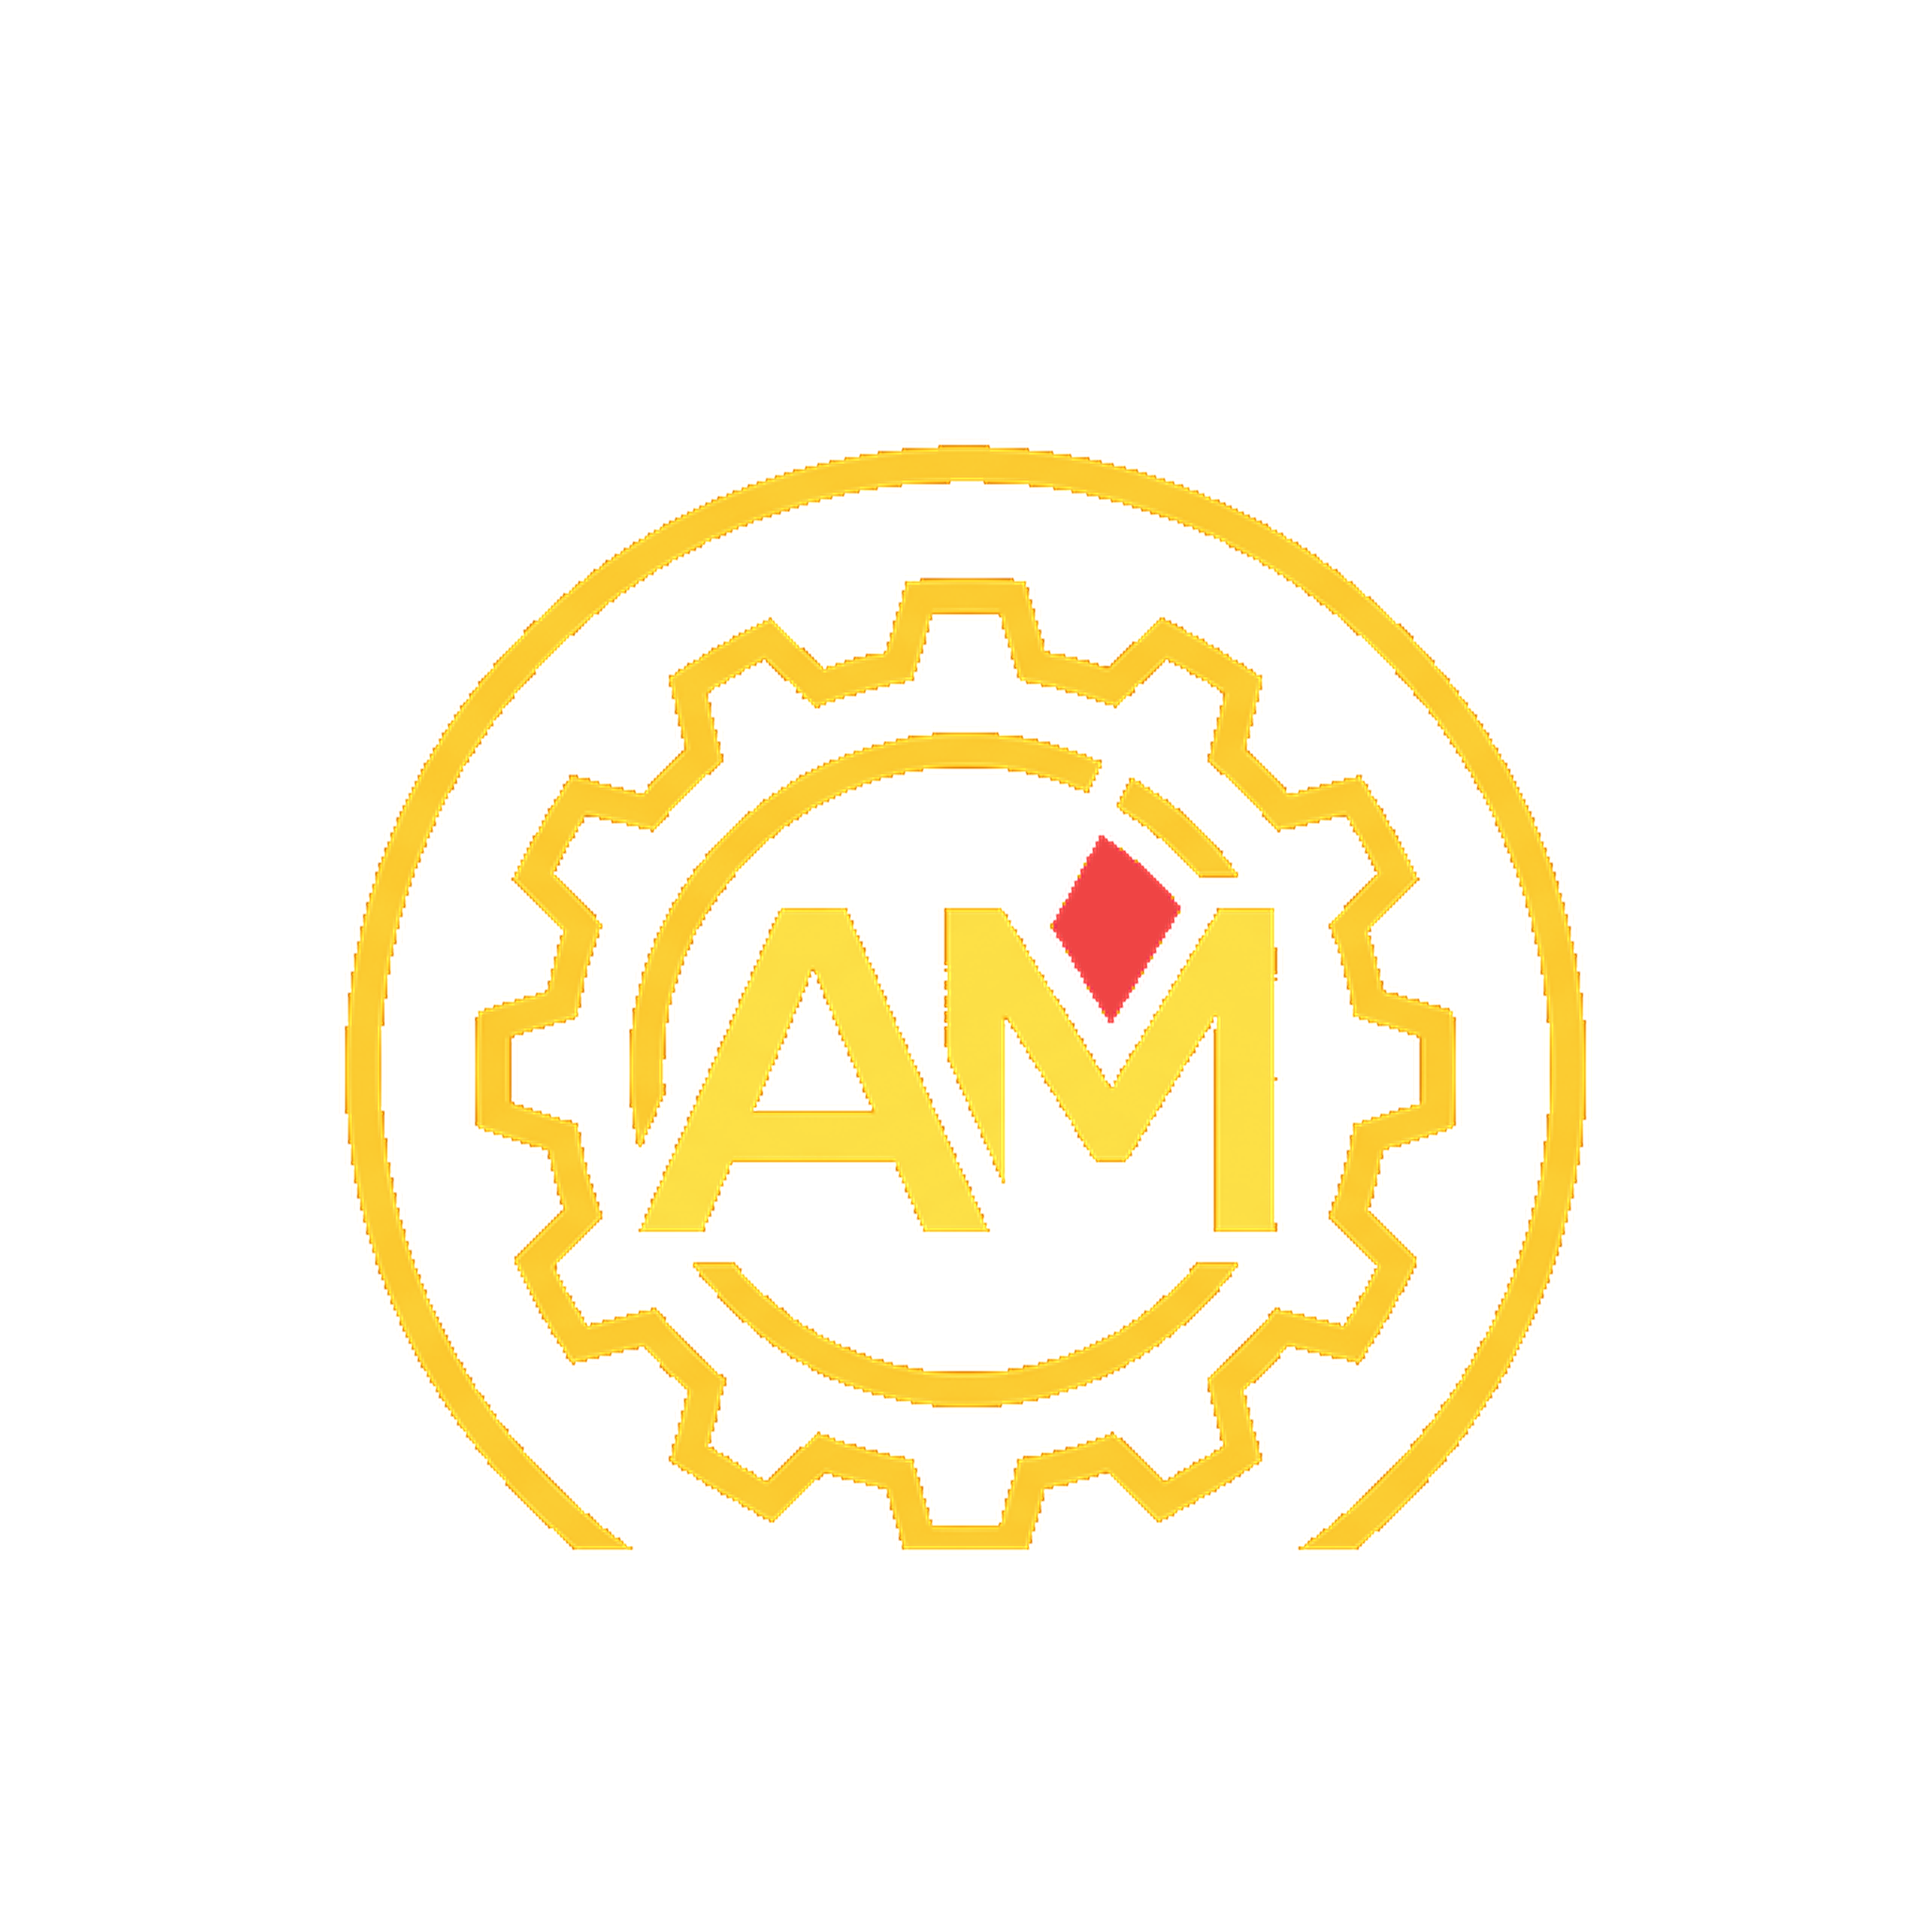
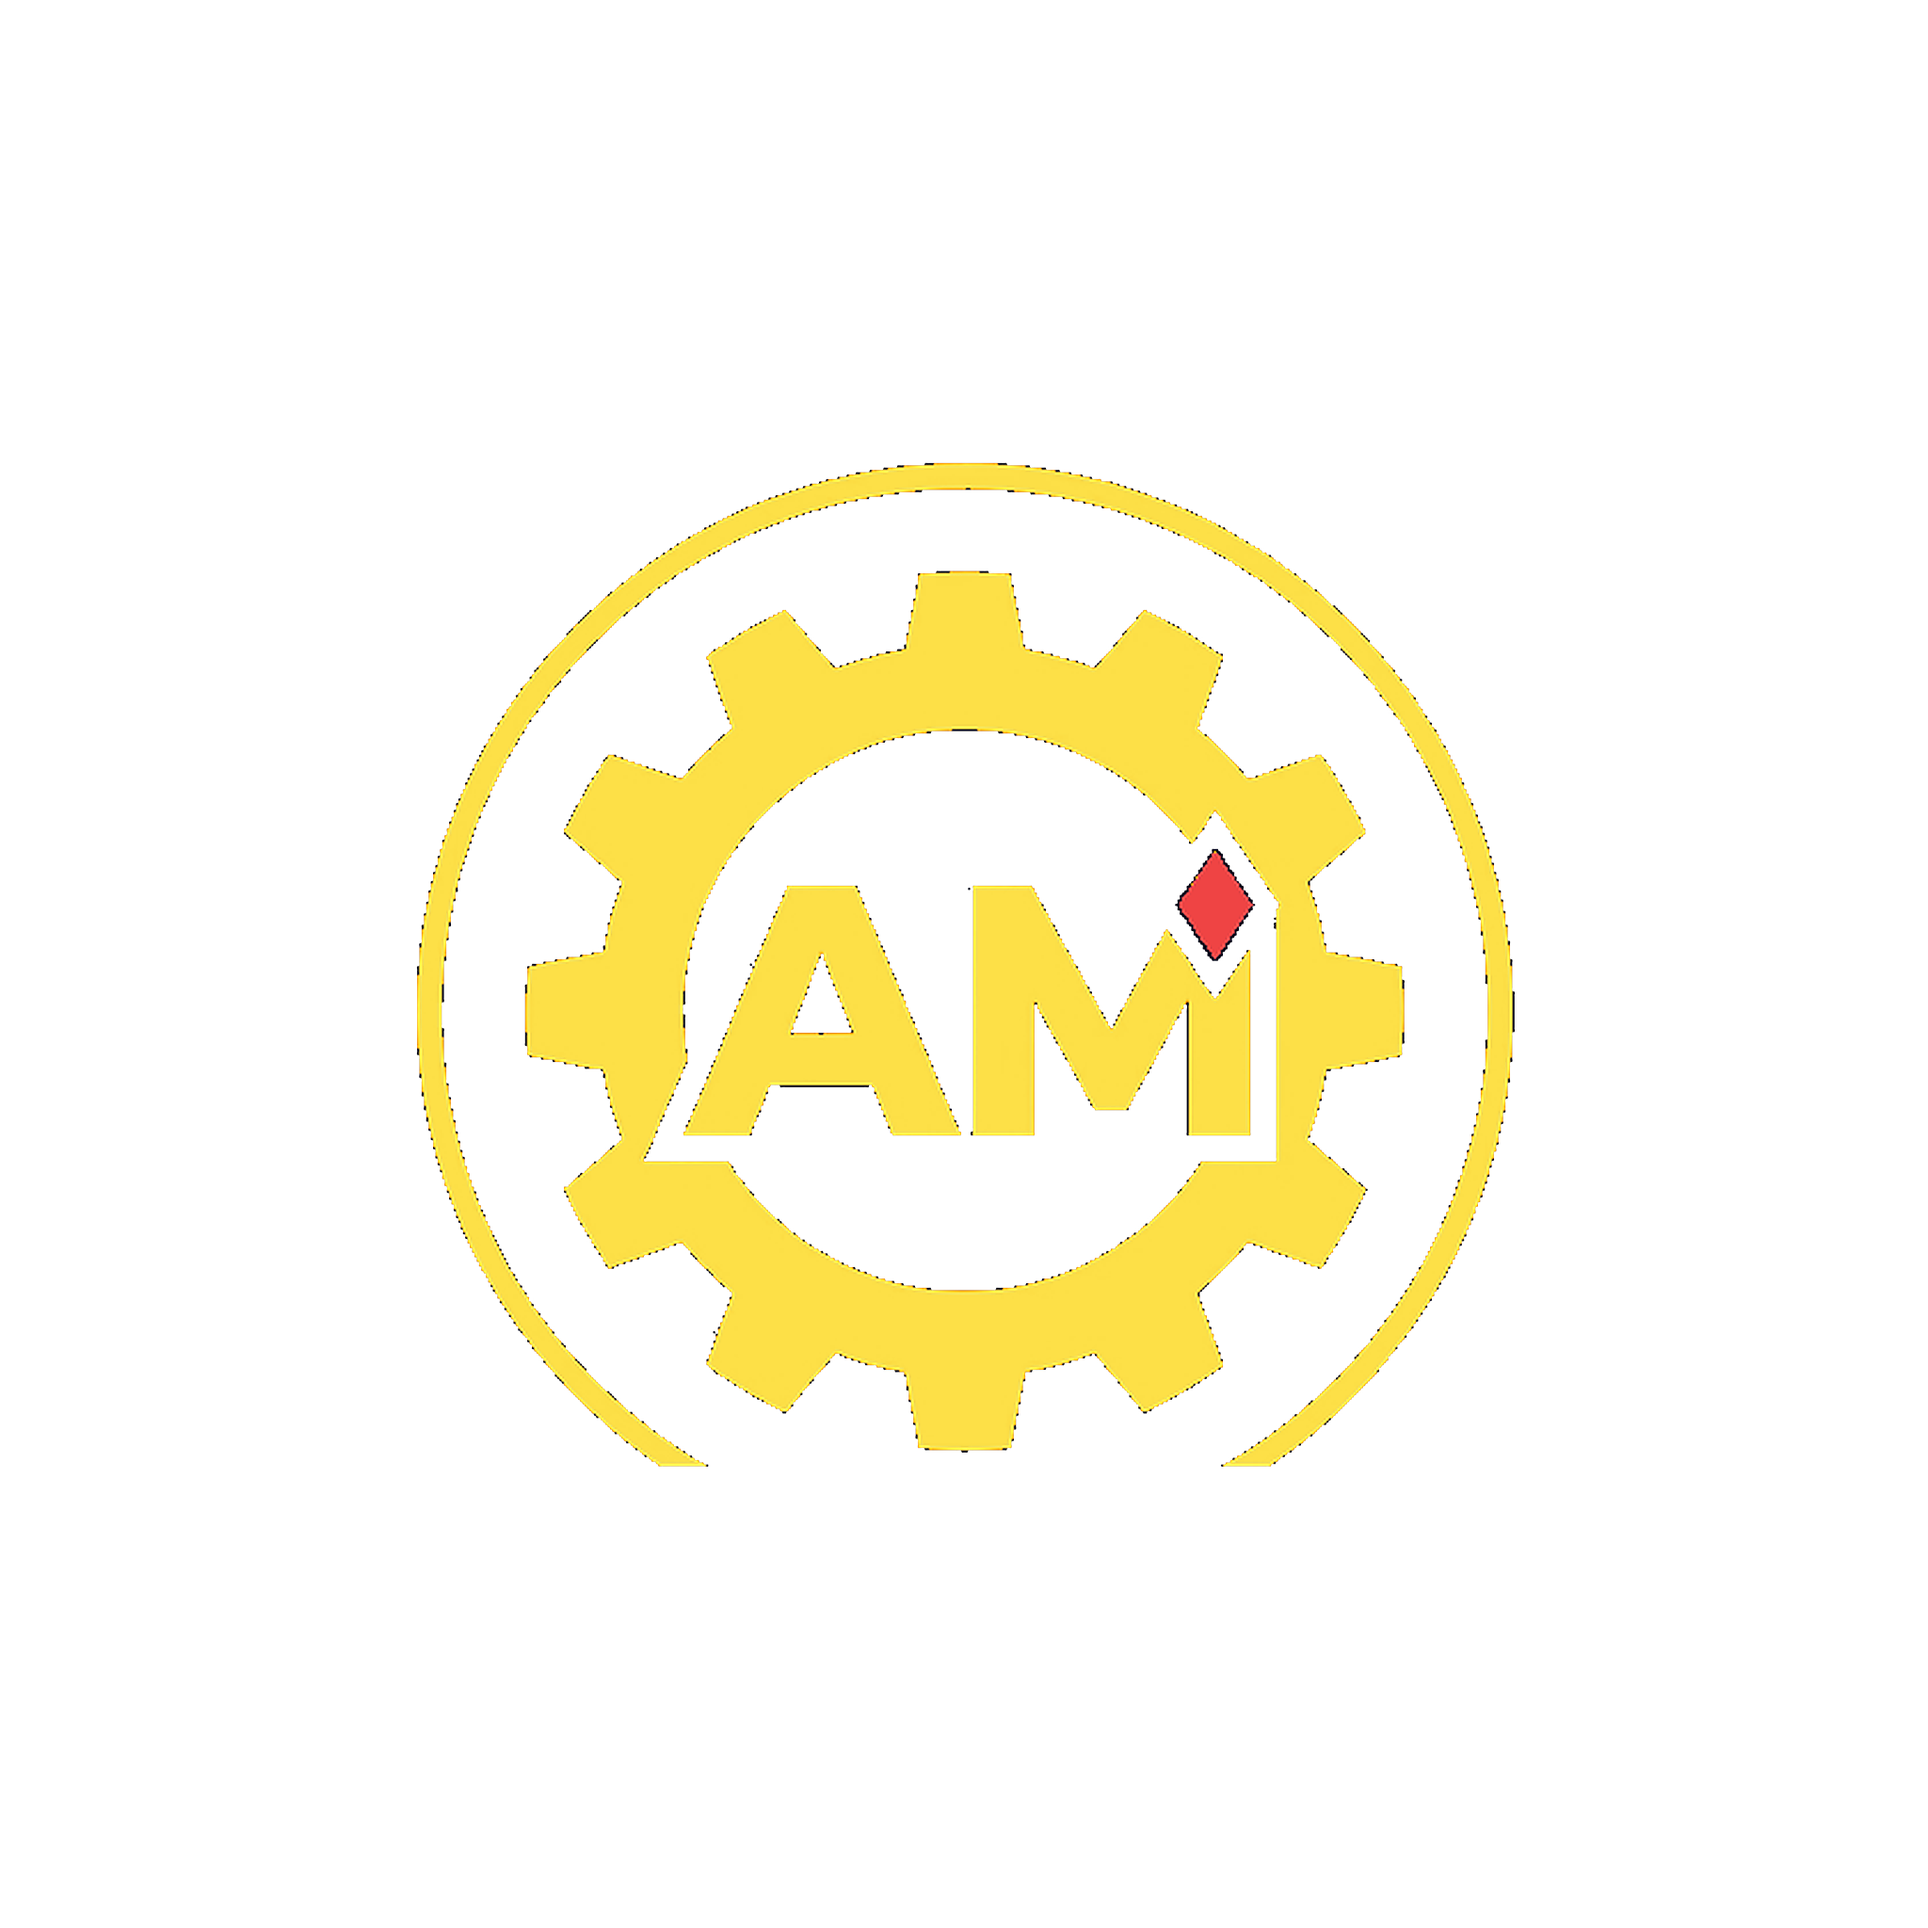
fix: rebuild logomark from classic gear (better bbox, no clipping)
Made-with: Cursor

Changed region(s): [[0.1562, 0.2188, 0.8438, 0.8125]]

diff --git a/scripts/build-astra-mark.py b/scripts/build-astra-mark.py
@@ -43,21 +43,30 @@ def _lerp_rgb(
 def tint(r: int, g: int, b: int, a: int) -> tuple[int, int, int, int]:
     if a < 20:
         return (0, 0, 0, 0)
-    if r + g + b < 42:
-        return (0, 0, 0, 0)
+
     # красный ромб на «M»
-    if r > 180 and g < 115 and b < 115 and r > g + 35:
+    if r > 150 and g < 130 and b < 150 and r > g + 35 and r > b + 15:
         return (*RED_500, a)
 
+    # luminance для разделения "светлые" (заливка) и "тёмные" (обводка)
     lum = (0.299 * r + 0.587 * g + 0.114 * b) / 255.0
-    # светлые участки → ближе к amber-300/400, тени → amber-500/600
-    if lum > 0.78:
-        t = (lum - 0.78) / 0.22
+
+    # тёмные участки оставляем тёмными, как в стилистике сайта
+    if lum < 0.28:
+        # слегка осветляем тени, чтобы обводка не "проваливалась"
+        return (2, 6, 23, a)
+
+    # заливка под amber-400/300/600
+    if lum > 0.72:
+        # ближе к amber-300 (свет)
+        t = (lum - 0.72) / 0.28
         rgb = _lerp_rgb(AMBER_400, AMBER_300, min(1.0, max(0.0, t)))
     elif lum > 0.42:
-        t = (lum - 0.42) / 0.36
+        # amber-500 -> amber-400 (середина)
+        t = (lum - 0.42) / 0.30
         rgb = _lerp_rgb(AMBER_500, AMBER_400, min(1.0, max(0.0, t)))
     else:
+        # более тёмные части -> amber-600 (тени заливки)
         t = lum / 0.42 if lum > 0 else 0
         rgb = _lerp_rgb(AMBER_600, AMBER_500, min(1.0, max(0.0, t)))
 
@@ -72,40 +81,95 @@ def main() -> None:
 
     im = Image.open(src).convert("RGBA")
     w, h = im.size
-    upper = im.crop((0, 0, w, int(h * 0.52)))
+
+    # Берём верхнюю часть, но bbox будем искать по разнице с "фоном".
+    # Это надёжнее, чем пороги по яркости.
+    upper = im.crop((0, 0, w, int(h * 0.70)))
     px = upper.load()
+    bg_r, bg_g, bg_b, _ = px[10, 10]
+
+    def color_dist(xr: int, xg: int, xb: int) -> int:
+        dr = xr - bg_r
+        dg = xg - bg_g
+        db = xb - bg_b
+        return dr * dr + dg * dg + db * db
+
+    # порог "отличается от фона": чем меньше порог — тем больше пикселей считается частью знака
+    BG_DIST_THR = 650
+
     minx, miny = upper.width, upper.height
     maxx, maxy = 0, 0
+    found = False
+
     for y in range(upper.height):
         for x in range(upper.width):
             r, g, b, a = px[x, y]
-            if r + g + b > 100:
-                minx = min(minx, x)
-                miny = min(miny, y)
-                maxx = max(maxx, x)
-                maxy = max(maxy, y)
+            if a < 20:
+                continue
+            if color_dist(r, g, b) < BG_DIST_THR:
+                # почти фон => не считаем частью знака
+                continue
+            found = True
+            minx = min(minx, x)
+            miny = min(miny, y)
+            maxx = max(maxx, x)
+            maxy = max(maxy, y)
 
+    if not found:
+        raise RuntimeError("Не удалось выделить логомарк: bbox пустой")
+
+    # Квадрат с безопасными полями.
+    # Важно: не "прижимать" кроп к краям (clamp), а делать кроп в прозрачный canvas,
+    # чтобы знак оставался по центру и не уезжал вверх/вниз.
     cx, cy = (minx + maxx) // 2, (miny + maxy) // 2
-    side = max(maxx - minx, maxy - miny) + 56  # запас, чтобы не резало круг
-    left = max(0, cx - side // 2)
-    top = max(0, cy - side // 2)
-    if left + side > upper.width:
-        left = upper.width - side
-    if top + side > upper.height:
-        top = upper.height - side
+    bbox_w, bbox_h = maxx - minx + 1, maxy - miny + 1
+    base_side = max(bbox_w, bbox_h)
+    safe = int(base_side * 0.22)  # запас ~22% по требованию "без обрезания"
+    side = base_side + safe * 2
 
-    square = upper.crop((left, top, left + side, top + side))
-    sq = square.copy()
+    desired_left = cx - side // 2
+    desired_top = cy - side // 2
+
+    src_left = max(0, desired_left)
+    src_top = max(0, desired_top)
+    src_right = min(upper.width, desired_left + side)
+    src_bottom = min(upper.height, desired_top + side)
+
+    dest_left = src_left - desired_left
+    dest_top = src_top - desired_top
+
+    canvas = Image.new("RGBA", (side, side), (0, 0, 0, 0))
+    crop_region = upper.crop((src_left, src_top, src_right, src_bottom))
+    canvas.paste(crop_region, (dest_left, dest_top), crop_region)
+
+    sq = canvas.copy()
     sp = sq.load()
+
+    # Реколор + маска прозрачности через фон
     for y in range(sq.height):
         for x in range(sq.width):
             r, g, b, a = sp[x, y]
+            if a < 20:
+                sp[x, y] = (0, 0, 0, 0)
+                continue
+            if color_dist(r, g, b) < BG_DIST_THR:
+                sp[x, y] = (0, 0, 0, 0)
+                continue
             sp[x, y] = tint(r, g, b, a)
 
     out_sz = 2048
-    out_img = sq.resize((out_sz, out_sz), Image.Resampling.LANCZOS)
-    # Лёгкая резкость после масштаба (мягко, без ореолов)
-    out_img = out_img.filter(ImageFilter.UnsharpMask(radius=1.2, percent=110, threshold=2))
+    # Дополнительный безопасный отступ: знак уменьшаем внутри большого прозрачного канваса.
+    # Это гарантирует, что даже при антиалиас/ореоле альфа не дойдёт до краёв.
+    inner_ratio = 0.82
+    inner_side = int(out_sz * inner_ratio)
+    resized = sq.resize((inner_side, inner_side), Image.Resampling.LANCZOS)
+
+    canvas = Image.new("RGBA", (out_sz, out_sz), (0, 0, 0, 0))
+    ox = (out_sz - inner_side) // 2
+    oy = (out_sz - inner_side) // 2
+    canvas.paste(resized, (ox, oy), resized)
+
+    out_img = canvas.filter(ImageFilter.UnsharpMask(radius=1.0, percent=115, threshold=2))
 
     OUT.parent.mkdir(parents=True, exist_ok=True)
     out_img.save(OUT, "PNG", optimize=True)
